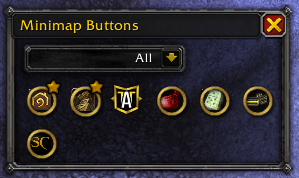
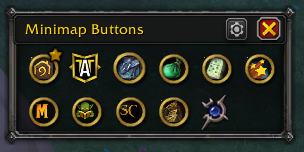
v1.4.0: Preserve original button tooltips and click behavior (#8)
* feat: Preserve original button tooltips and click behavior (#7)

Add manage mode toggle (gear icon on title bar) that separates MO's
organization controls from the original button behavior. In normal mode,
all clicks and tooltips pass through to the original addon button. In
manage mode, left-click toggles favorites and right-click opens the MO
context menu.

* Remove raw frame name from manage mode tooltip and adjust gear icon position

* v1.4.0: Update version, changelog, and documentation

* Add manage mode and button compatibility to feature lists

* v1.4.1: Redesign title bar with atlas buttons and fix window dragging

Replaces UIPanelCloseButton and custom gear texture with native Blizzard
atlas textures for a cleaner, consistent title bar. Switches window drag
from RegisterForDrag to OnMouseDown/OnMouseUp for correct cursor anchoring.
Updates screenshots and bumps version to 1.4.1.

---------

diff --git a/CHANGELOG.md b/CHANGELOG.md
@@ -1,5 +1,34 @@
 # Changelog
 
+## [1.4.1] - UI Polish
+
+### Changed
+- Redesigned title bar buttons using native Blizzard atlas textures for a cleaner, more consistent look
+- Gear icon now uses proper hover, pressed, and active states matching Blizzard's UI style
+- Close button replaced with atlas-based version for visual consistency with gear icon
+- Manage mode tooltip now updates immediately on click without requiring mouse-off
+- Improved window dragging to prevent cursor offset issues
+
+### Fixed
+- Tooltips no longer appear when dragging the collection window over buttons
+- Window drag now anchors correctly to the cursor position
+
+## [1.4.0] - Preserve Original Button Behavior
+
+### Added
+- **Manage Mode** - Gear icon on the collection window title bar toggles between normal and manage mode
+- **Normal Mode** - All clicks (left, right, middle + modifiers) and tooltips pass through to the original addon button untouched
+- **Manage Mode** - Left-click toggles favorites, right-click opens MO context menu (categories, release)
+
+### Changed
+- Original button tooltips are now shown in normal mode instead of MO's custom tooltip
+- Original button click handlers (including right-click and middle-click) are now preserved
+- Manage mode automatically resets when the collection window is closed
+
+### Fixed
+- Original button tooltips were being overwritten with MO-only information ([#7](https://github.com/atmuccio/MinimapOrganizer/issues/7))
+- Right-click and middle-click on collected buttons were not forwarded to the original addon ([#7](https://github.com/atmuccio/MinimapOrganizer/issues/7))
+
 ## [1.3.1] - WoW 12.0.1 Compatibility
 
 ### Changed

diff --git a/README.md b/README.md
@@ -5,6 +5,8 @@ A World of Warcraft addon that collects minimap buttons into a clean, organized 
 ## Features
 
 - **Collects minimap buttons** into a movable grid window
+- **Full button compatibility** - Original tooltips, clicks, and modifier keys work exactly as they do on the minimap
+- **Manage mode** - Gear icon toggles a management mode for organizing favorites, categories, and exclusions
 - **Custom categories** - Create, rename, reorder, and delete your own categories
 - **Favorites** - Mark buttons with a star for quick access
 - **Exclude buttons** - Keep specific buttons on the minimap
@@ -29,13 +31,15 @@ A World of Warcraft addon that collects minimap buttons into a clean, organized 
 - **Left-click** the minimap button, or
 - Type `/mo` in chat
 
+### Using Buttons
+- Buttons work exactly as they do on the minimap — all clicks and tooltips pass through to the original addon
+
 ### Managing Buttons
-- **Left-click** a button to use it
-- **Right-click** a button for options:
-  - Toggle favorite
-  - Set category
-  - Release back to minimap
-- **Ctrl+click** to quickly toggle favorite
+- Click the **gear icon** on the window title bar to enter **Manage Mode**
+- In manage mode:
+  - **Left-click** a button to toggle favorite
+  - **Right-click** a button for options (set category, release to minimap)
+- Click the gear icon again (or close the window) to return to normal
 
 ### Slash Commands
 

diff --git a/.curseforge/DESCRIPTION.md b/.curseforge/DESCRIPTION.md
@@ -5,6 +5,8 @@ Tired of minimap button clutter? **MinimapOrganizer** collects all your addon bu
 ## Features
 
 - **One-Click Collection** - Automatically gathers minimap buttons into a tidy grid
+- **Full Button Compatibility** - Original tooltips, clicks, and modifier keys work exactly as they do on the minimap
+- **Manage Mode** - Gear icon on the title bar toggles management mode for organizing favorites, categories, and exclusions
 - **Custom Categories** - Organize buttons into your own categories (combat, professions, etc.)
 - **Favorites** - Star your most-used buttons for quick access
 - **Smart Sorting** - Sort alphabetically or by category with visual section headers
@@ -17,8 +19,8 @@ Tired of minimap button clutter? **MinimapOrganizer** collects all your addon bu
 ## How to Use
 
 1. **Left-click** the MinimapOrganizer button (or type `/mo`)
-2. **Right-click** any button in the window for options
-3. **Ctrl+click** to quickly favorite/unfavorite
+2. Buttons work normally — all clicks and tooltips pass through to the original addon
+3. Click the **gear icon** on the title bar to enter **Manage Mode** for organizing (favorites, categories, release)
 
 ## Slash Commands
 
